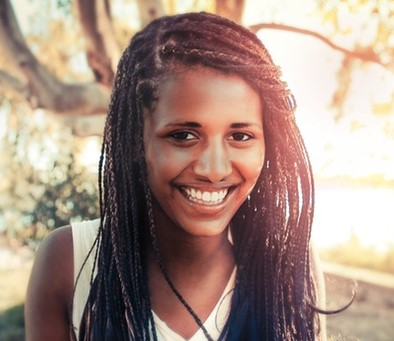
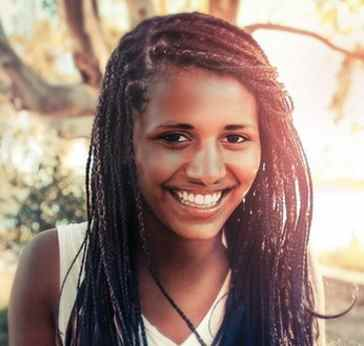
Resized agent photos and added autocomplete

diff --git a/client/js/awesomplete.min.js b/client/js/awesomplete.min.js
@@ -1,0 +1,3 @@
+// Awesomplete - Lea Verou - MIT license
+!function(){function t(t){var e=Array.isArray(t)?{label:t[0],value:t[1]}:"object"==typeof t&&"label"in t&&"value"in t?t:{label:t,value:t};this.label=e.label||e.value,this.value=e.value}function e(t,e,i){for(var n in e){var s=e[n],r=t.input.getAttribute("data-"+n.toLowerCase());"number"==typeof s?t[n]=parseInt(r):s===!1?t[n]=null!==r:s instanceof Function?t[n]=null:t[n]=r,t[n]||0===t[n]||(t[n]=n in i?i[n]:s)}}function i(t,e){return"string"==typeof t?(e||document).querySelector(t):t||null}function n(t,e){return o.call((e||document).querySelectorAll(t))}function s(){n("input.awesomplete").forEach(function(t){new r(t)})}var r=function(t,n){var s=this;this.isOpened=!1,this.input=i(t),this.input.setAttribute("autocomplete","off"),this.input.setAttribute("aria-autocomplete","list"),n=n||{},e(this,{minChars:2,maxItems:10,autoFirst:!1,data:r.DATA,filter:r.FILTER_CONTAINS,sort:r.SORT_BYLENGTH,item:r.ITEM,replace:r.REPLACE},n),this.index=-1,this.container=i.create("div",{className:"awesomplete",around:t}),this.ul=i.create("ul",{hidden:"hidden",inside:this.container}),this.status=i.create("span",{className:"visually-hidden",role:"status","aria-live":"assertive","aria-relevant":"additions",inside:this.container}),i.bind(this.input,{input:this.evaluate.bind(this),blur:this.close.bind(this,{reason:"blur"}),keydown:function(t){var e=t.keyCode;s.opened&&(13===e&&s.selected?(t.preventDefault(),s.select()):27===e?s.close({reason:"esc"}):38!==e&&40!==e||(t.preventDefault(),s[38===e?"previous":"next"]()))}}),i.bind(this.input.form,{submit:this.close.bind(this,{reason:"submit"})}),i.bind(this.ul,{mousedown:function(t){var e=t.target;if(e!==this){for(;e&&!/li/i.test(e.nodeName);)e=e.parentNode;e&&0===t.button&&(t.preventDefault(),s.select(e,t.target))}}}),this.input.hasAttribute("list")?(this.list="#"+this.input.getAttribute("list"),this.input.removeAttribute("list")):this.list=this.input.getAttribute("data-list")||n.list||[],r.all.push(this)};r.prototype={set list(t){if(Array.isArray(t))this._list=t;else if("string"==typeof t&&t.indexOf(",")>-1)this._list=t.split(/\s*,\s*/);else if(t=i(t),t&&t.children){var e=[];o.apply(t.children).forEach(function(t){if(!t.disabled){var i=t.textContent.trim(),n=t.value||i,s=t.label||i;""!==n&&e.push({label:s,value:n})}}),this._list=e}document.activeElement===this.input&&this.evaluate()},get selected(){return this.index>-1},get opened(){return this.isOpened},close:function(t){this.opened&&(this.ul.setAttribute("hidden",""),this.isOpened=!1,this.index=-1,i.fire(this.input,"awesomplete-close",t||{}))},open:function(){this.ul.removeAttribute("hidden"),this.isOpened=!0,this.autoFirst&&this.index===-1&&this.goto(0),i.fire(this.input,"awesomplete-open")},next:function(){var t=this.ul.children.length;this.goto(this.index<t-1?this.index+1:t?0:-1)},previous:function(){var t=this.ul.children.length,e=this.index-1;this.goto(this.selected&&e!==-1?e:t-1)},goto:function(t){var e=this.ul.children;this.selected&&e[this.index].setAttribute("aria-selected","false"),this.index=t,t>-1&&e.length>0&&(e[t].setAttribute("aria-selected","true"),this.status.textContent=e[t].textContent,i.fire(this.input,"awesomplete-highlight",{text:this.suggestions[this.index]}))},select:function(t,e){if(t?this.index=i.siblingIndex(t):t=this.ul.children[this.index],t){var n=this.suggestions[this.index],s=i.fire(this.input,"awesomplete-select",{text:n,origin:e||t});s&&(this.replace(n),this.close({reason:"select"}),i.fire(this.input,"awesomplete-selectcomplete",{text:n}))}},evaluate:function(){var e=this,i=this.input.value;i.length>=this.minChars&&this._list.length>0?(this.index=-1,this.ul.innerHTML="",this.suggestions=this._list.map(function(n){return new t(e.data(n,i))}).filter(function(t){return e.filter(t,i)}).sort(this.sort).slice(0,this.maxItems),this.suggestions.forEach(function(t){e.ul.appendChild(e.item(t,i))}),0===this.ul.children.length?this.close({reason:"nomatches"}):this.open()):this.close({reason:"nomatches"})}},r.all=[],r.FILTER_CONTAINS=function(t,e){return RegExp(i.regExpEscape(e.trim()),"i").test(t)},r.FILTER_STARTSWITH=function(t,e){return RegExp("^"+i.regExpEscape(e.trim()),"i").test(t)},r.SORT_BYLENGTH=function(t,e){return t.length!==e.length?t.length-e.length:t<e?-1:1},r.ITEM=function(t,e){var n=""===e?t:t.replace(RegExp(i.regExpEscape(e.trim()),"gi"),"<mark>$&</mark>");return i.create("li",{innerHTML:n,"aria-selected":"false"})},r.REPLACE=function(t){this.input.value=t.value},r.DATA=function(t){return t},Object.defineProperty(t.prototype=Object.create(String.prototype),"length",{get:function(){return this.label.length}}),t.prototype.toString=t.prototype.valueOf=function(){return""+this.label};var o=Array.prototype.slice;return i.create=function(t,e){var n=document.createElement(t);for(var s in e){var r=e[s];if("inside"===s)i(r).appendChild(n);else if("around"===s){var o=i(r);o.parentNode.insertBefore(n,o),n.appendChild(o)}else s in n?n[s]=r:n.setAttribute(s,r)}return n},i.bind=function(t,e){if(t)for(var i in e){var n=e[i];i.split(/\s+/).forEach(function(e){t.addEventListener(e,n)})}},i.fire=function(t,e,i){var n=document.createEvent("HTMLEvents");n.initEvent(e,!0,!0);for(var s in i)n[s]=i[s];return t.dispatchEvent(n)},i.regExpEscape=function(t){return t.replace(/[-\\^$*+?.()|[\]{}]/g,"\\$&")},i.siblingIndex=function(t){for(var e=0;t=t.previousElementSibling;e++);return e},"undefined"!=typeof Document&&("loading"!==document.readyState?s():document.addEventListener("DOMContentLoaded",s)),r.$=i,r.$$=n,"undefined"!=typeof self&&(self.Awesomplete=r),"object"==typeof module&&module.exports&&(module.exports=r),r}();
+//# sourceMappingURL=awesomplete.min.js.map

diff --git a/client/css/awesomplete.css b/client/css/awesomplete.css
@@ -1,0 +1,104 @@
+.awesomplete [hidden] {
+    display: none;
+}
+
+.awesomplete .visually-hidden {
+    position: absolute;
+    clip: rect(0, 0, 0, 0);
+}
+
+.awesomplete {
+    display: inline-block;
+    position: relative;
+}
+
+.awesomplete > input {
+    display: block;
+}
+
+.awesomplete > ul {
+    position: absolute;
+    left: 0;
+    z-index: 1;
+    min-width: 100%;
+    box-sizing: border-box;
+    list-style: none;
+    padding: 0;
+    margin: 0;
+    background: #fff;
+}
+
+.awesomplete > ul:empty {
+    display: none;
+}
+
+.awesomplete > ul {
+	border-radius: .3em;
+	margin: .2em 0 0;
+	background: hsla(0,0%,100%,.9);
+	background: linear-gradient(to bottom right, white, hsla(0,0%,100%,.8));
+	border: 1px solid rgba(0,0,0,.3);
+	box-shadow: .05em .2em .6em rgba(0,0,0,.2);
+	text-shadow: none;
+}
+
+@supports (transform: scale(0)) {
+	.awesomplete > ul {
+		transition: .3s cubic-bezier(.4,.2,.5,1.4);
+		transform-origin: 1.43em -.43em;
+	}
+	
+	.awesomplete > ul[hidden],
+	.awesomplete > ul:empty {
+		opacity: 0;
+		transform: scale(0);
+		display: block;
+		transition-timing-function: ease;
+	}
+}
+
+	/* Pointer */
+	.awesomplete > ul:before {
+		content: "";
+		position: absolute;
+		top: -.43em;
+		left: 1em;
+		width: 0; height: 0;
+		padding: .4em;
+		background: white;
+		border: inherit;
+		border-right: 0;
+		border-bottom: 0;
+		-webkit-transform: rotate(45deg);
+		transform: rotate(45deg);
+	}
+
+	.awesomplete > ul > li {
+		position: relative;
+		padding: .2em .5em;
+		cursor: pointer;
+	}
+	
+	.awesomplete > ul > li:hover {
+		background: hsl(200, 40%, 80%);
+		color: black;
+	}
+	
+	.awesomplete > ul > li[aria-selected="true"] {
+		background: hsl(205, 40%, 40%);
+		color: white;
+	}
+	
+		.awesomplete mark {
+			background: hsl(65, 100%, 50%);
+		}
+		
+		.awesomplete li:hover mark {
+			background: hsl(68, 100%, 41%);
+		}
+		
+		.awesomplete li[aria-selected="true"] mark {
+			background: hsl(86, 100%, 21%);
+			color: inherit;
+		}
+/*# sourceMappingURL=awesomplete.css.map */

diff --git a/client/html/corporate-account.html b/client/html/corporate-account.html
@@ -2,6 +2,13 @@
 	<head>
 		<title>Dish Network Corporate Account Page</title>
 		<link rel='stylesheet' href='../css/corporate-account.css'>
+
+		<!-- Natural Language Processing -->
+		<script src='https://unpkg.com/nlp_compromise@latest/builds/nlp_compromise.min.js'></script>
+		
+		<!-- Autocomplete -->
+		<link rel='stylesheet' href='../css/awesomplete.css'/>
+		<script src='../js/awesomplete.min.js' async></script>
 	</head>
 	<body>
 		<img class='menu-icon' src='../res/menu.svg'>
@@ -14,7 +21,22 @@
 			<div class='left-column'>
 				<div class='search-bar'>
 					<form class='search-form'>
-						<input class='search-query' placeholder='Search for an issue or support agent'>
+						<input class='search-query awesomplete' placeholder='Search for an issue or support agent' list='issuesAndAgents'>
+						<datalist id='issuesAndAgents'>
+							<option>Billing</option>
+							<option>Payment</option>
+							<option>Unable to pay</option>
+							<option>Billing and payment</option>
+							<option>Problems with billing</option>
+							<option>Problems with payment</option>
+							<option>Overcharged</option>
+							<option>Sheila Bleyhl</option>
+							<option>Brandon Gene</option>
+							<option>Lauren Darrin</option>
+							<option>Ronald Reagan</option>
+							<option>Jerrod Sigmund</option>
+							<option>Len Slade</option>
+						</datalist>
 					</form>
 					<img class='search-icon' src='../res/search.svg'>
 				</div>
